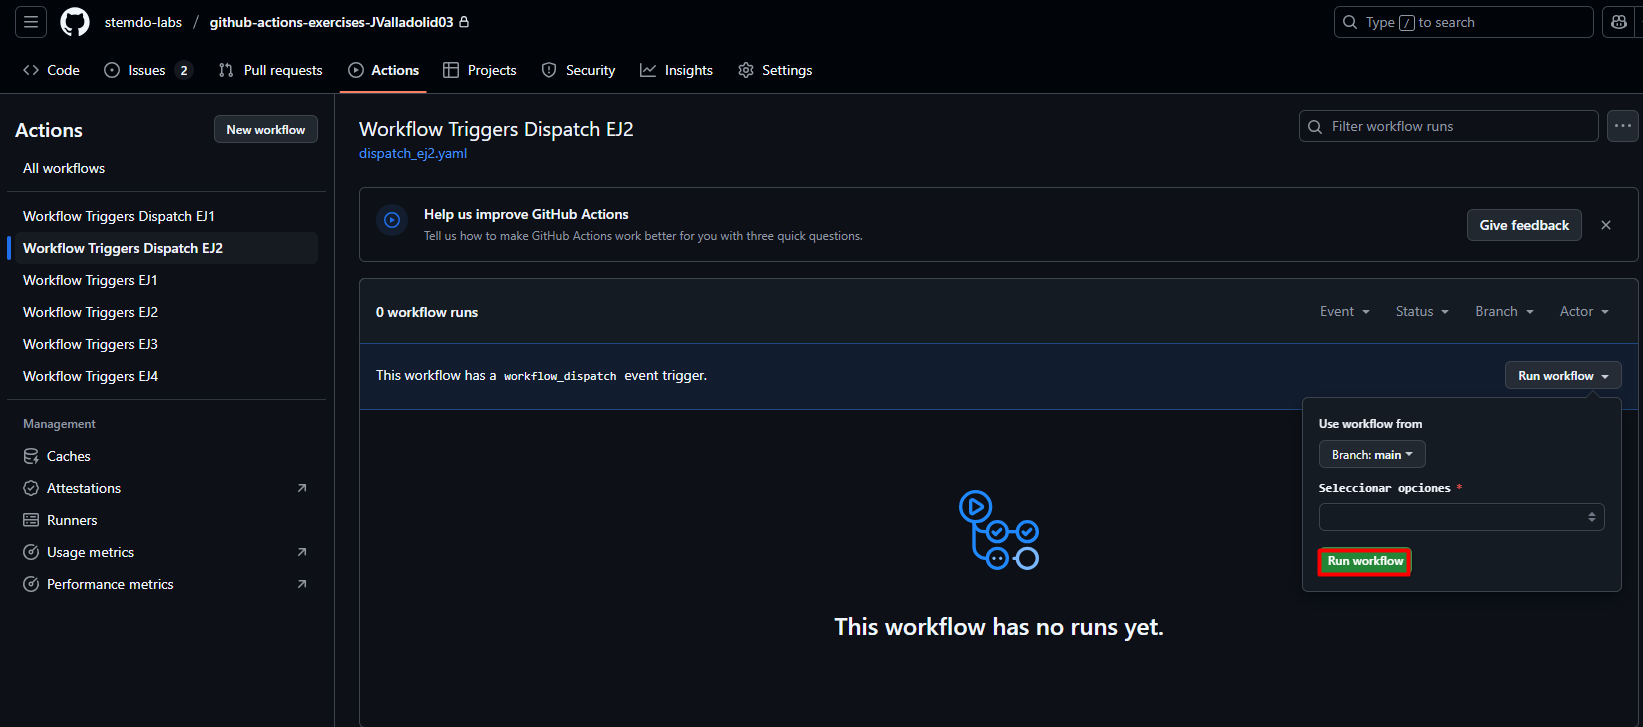
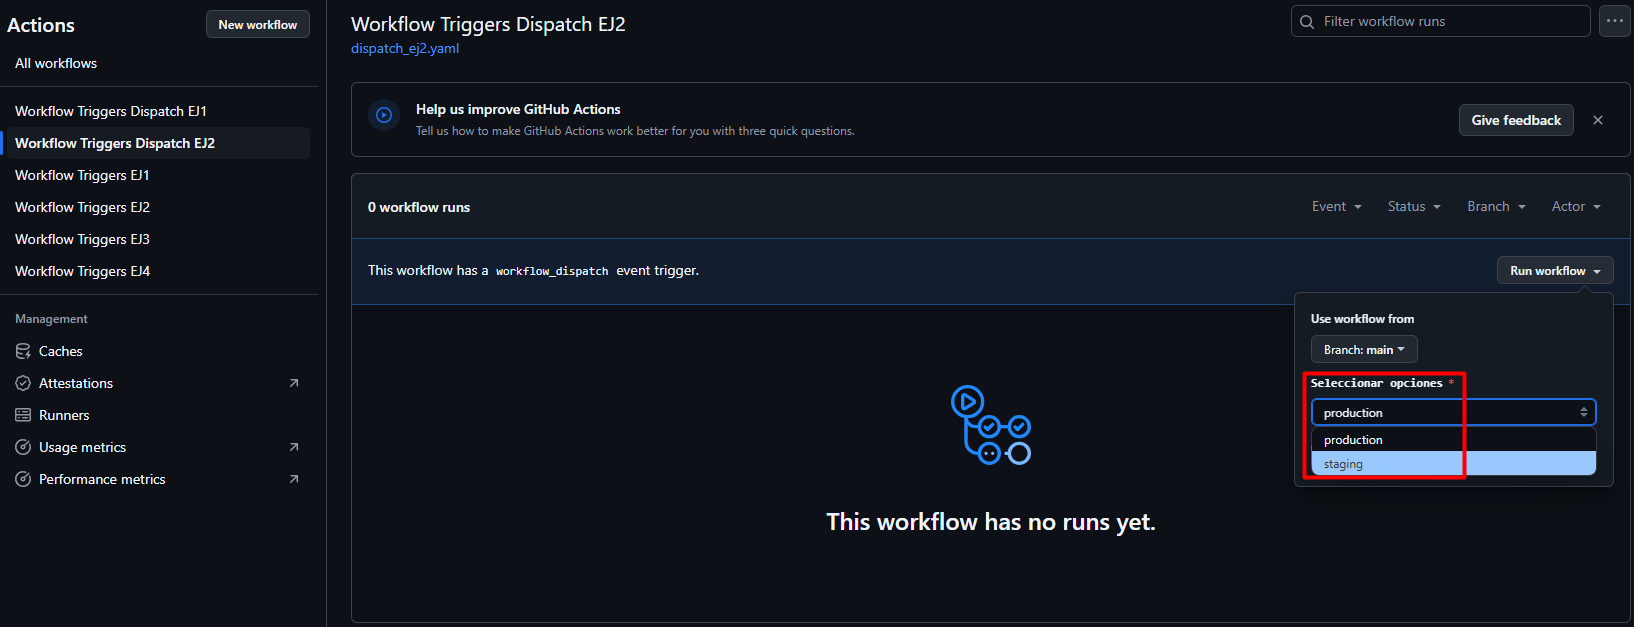
dispatch_ej2 completado

diff --git a/soluciones/triggers/dispatch/ejercicio2.md b/soluciones/triggers/dispatch/ejercicio2.md
@@ -1,0 +1,41 @@
+# Triggers (Dispatch) - Ejercicio 2
+
+## 1. Configura un workflow para que se ejecute manualmente usando el evento workflow_dispatch.
+
+Workflow:
+
+![](../../../datos/trigger_dispatch_ej2_foto1.png)
+
+## 2. Define un input llamado "_environment_" que permita seleccionar entre "_production_" y "_staging_".
+
+Llamo al input `environment` y le doy el tipo `choice` para poder elegir entre las dos opciones:
+
+```yaml
+inputs:
+    environment:
+        description: "Seleccionar opciones"
+        type: choice
+        required: true
+        options:
+            - production
+            - staging
+```
+
+## 3. Imprime el entorno seleccionado en la consola.
+
+Se llama al al input con el job:
+
+```yaml
+jobs:
+  print-tag:
+    runs-on: labs-runner
+    steps:
+      - name: Llamar al input
+        run: echo El entorno seleccionado es = ${{ github.event.inputs.environment }}
+```
+
+Comprobar que funciona:
+
+![](../../../datos/trigger_dispatch_ej2_foto2.png)
+
+![](../../../datos/trigger_dispatch_ej2_foto3.png)

diff --git a/soluciones/triggers/dispatch/ejercicio1.md b/soluciones/triggers/dispatch/ejercicio1.md
@@ -37,3 +37,9 @@ jobs:
       - name: Llamar al input
         run: echo Llamada al input = ${{ github.event.inputs.message }}
 ```
+
+Comprobar que funciona:
+
+![](../../../datos/trigger_dispatch_ej1_foto2.png)
+
+![](../../../datos/trigger_dispatch_ej1_foto3.png)
